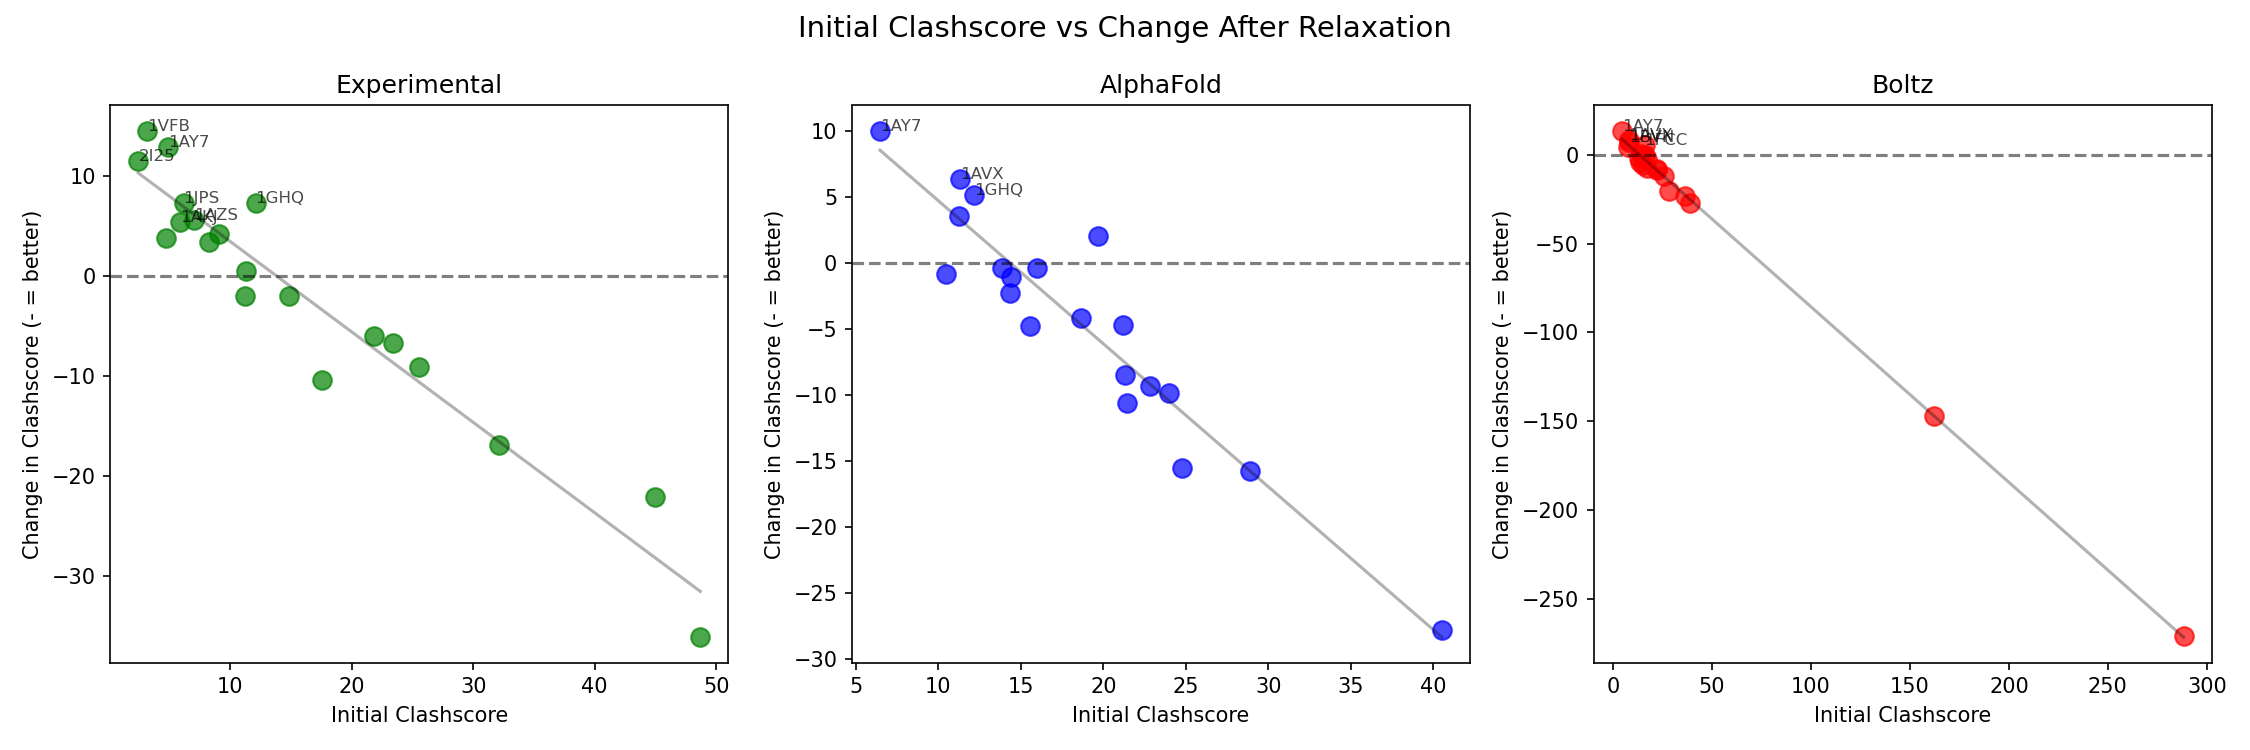
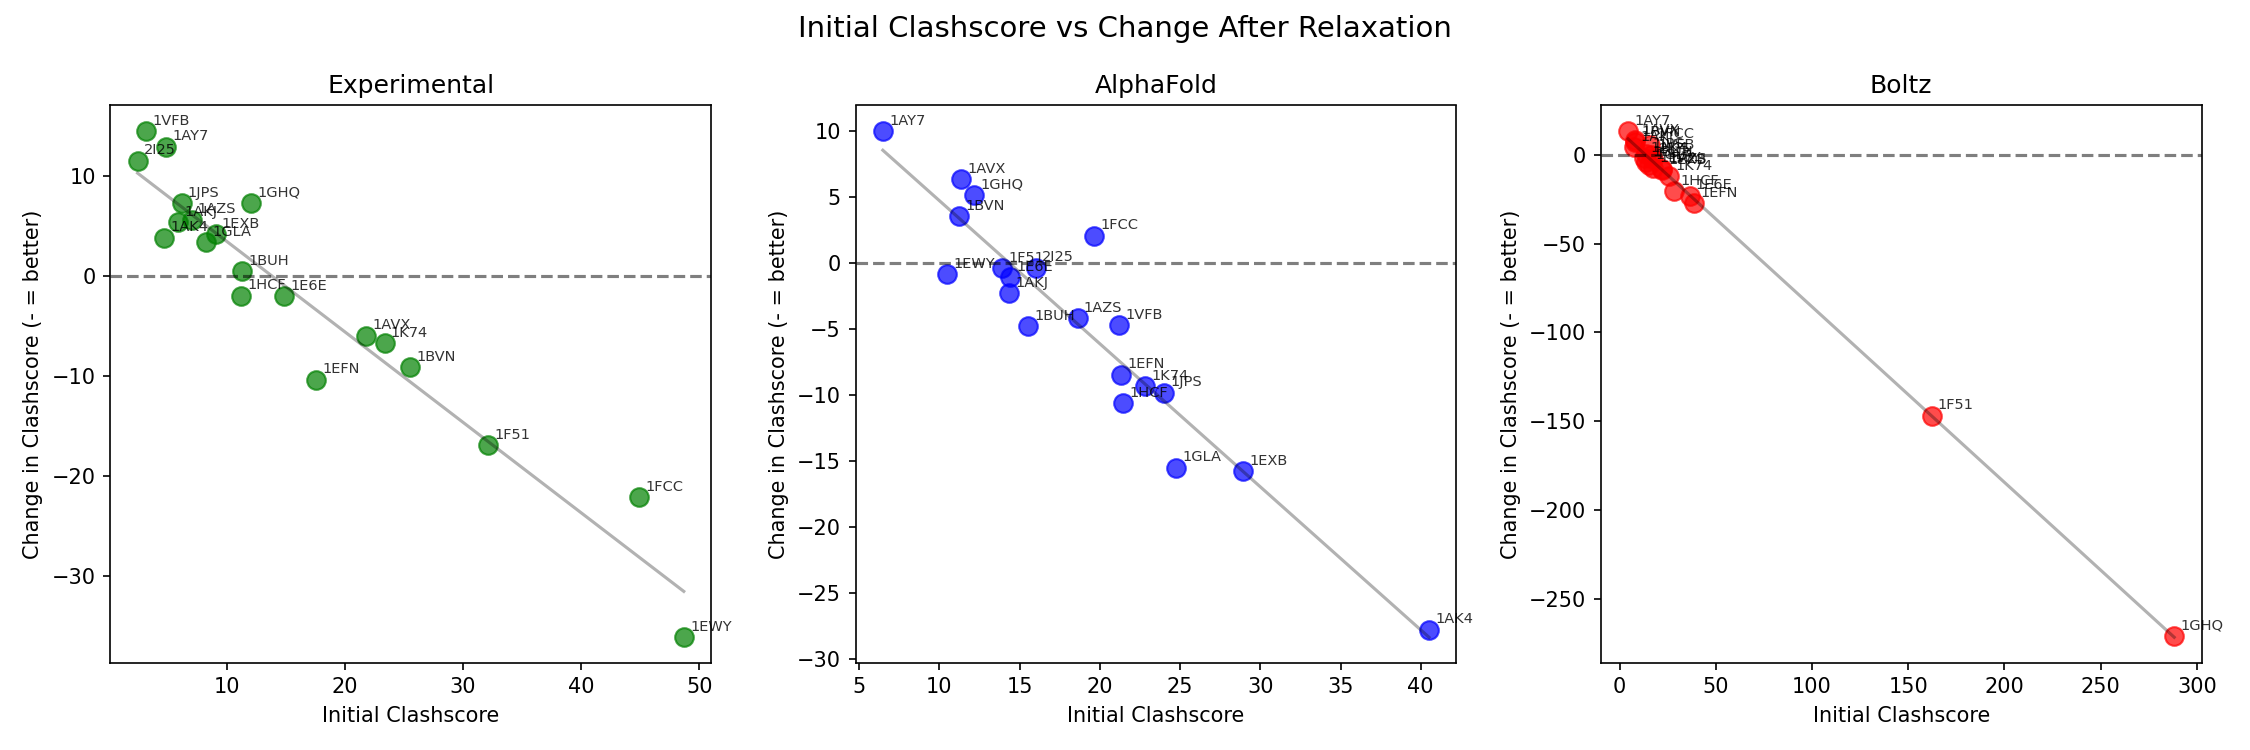
Label all points in clashscore correlation figure

diff --git a/scripts/clashscore_correlation.py b/scripts/clashscore_correlation.py
@@ -73,11 +73,10 @@ for i, cat in enumerate(['Experimental', 'AlphaFold', 'Boltz']):
     ax.scatter(cat_data['initial_clashscore'], cat_data['change'],
                c=colors[cat], alpha=0.7, s=80)
 
-    # Label outliers
+    # Label ALL points
     for _, row in cat_data.iterrows():
-        if row['change'] > 5:  # Got much worse
-            ax.annotate(row['protein'], (row['initial_clashscore'], row['change']),
-                        fontsize=8, alpha=0.7)
+        ax.annotate(row['protein'], (row['initial_clashscore'], row['change']),
+                    fontsize=7, alpha=0.8, xytext=(3, 3), textcoords='offset points')
 
     ax.axhline(0, color='black', linestyle='--', alpha=0.5)
     ax.set_xlabel('Initial Clashscore')
